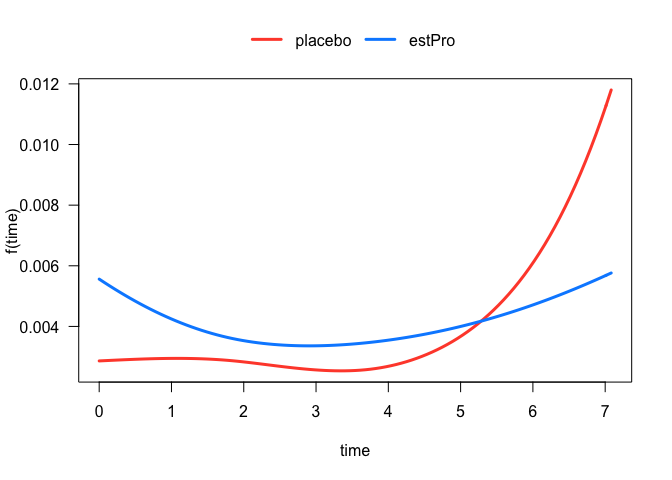
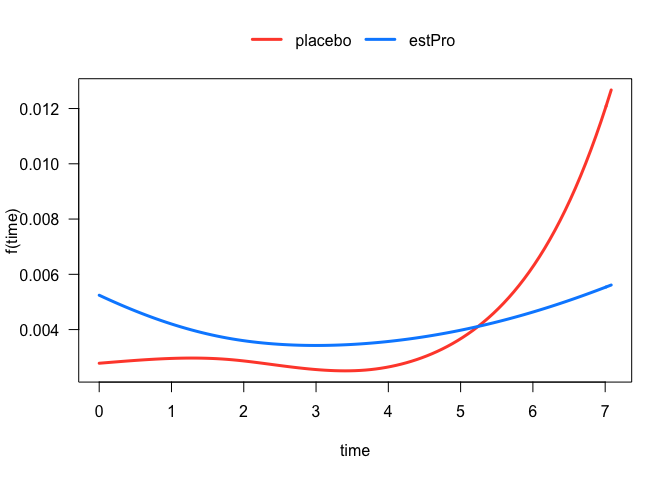
transition to GHA

diff --git a/README.md b/README.md
@@ -5,8 +5,6 @@
 
 <!-- badges: start -->
 
-[![Build
-Status](https://api.travis-ci.org/sahirbhatnagar/casebase.svg?branch=master)](https://travis-ci.org/github/sahirbhatnagar/casebase)
 [![Coverage
 Status](https://img.shields.io/codecov/c/github/sahirbhatnagar/casebase/master.svg)](https://codecov.io/github/sahirbhatnagar/casebase?branch=master)
 [![CRAN](https://www.r-pkg.org/badges/version/casebase?color=blue)](https://cran.r-project.org/package=casebase)
@@ -63,7 +61,7 @@ example usage of the functions. This includes
 6.  [Plot Cumulative Incidence and Survival
     Curves](http://sahirbhatnagar.com/casebase/articles/plotabsRisk.html)
 
-## useR\! 2019 Toulouse - Presentation
+## useR! 2019 Toulouse - Presentation
 
 [![Jesse
 useR](man/figures/jesse-user.png)](https://www.youtube.com/watch?v=DlppjRYVklQ)
@@ -128,26 +126,26 @@ summary(fit)
 #> 
 #> Deviance Residuals: 
 #>     Min       1Q   Median       3Q      Max  
-#> -0.2479  -0.1482  -0.1373  -0.1268   3.1490  
+#> -0.2560  -0.1483  -0.1385  -0.1264   3.1525  
 #> 
 #> Coefficients:
 #>                                   Estimate Std. Error z value Pr(>|z|)    
-#> (Intercept)                       -5.85621    0.30013 -19.512  < 2e-16 ***
-#> treatmentestPro                    0.66414    0.37783   1.758   0.0788 .  
-#> ns(time, df = 3)1                 -0.41110    0.35944  -1.144   0.2527    
-#> ns(time, df = 3)2                  0.77792    0.73254   1.062   0.2883    
-#> ns(time, df = 3)3                  1.37771    0.34131   4.036 5.43e-05 ***
-#> treatmentestPro:ns(time, df = 3)1  0.07468    0.48613   0.154   0.8779    
-#> treatmentestPro:ns(time, df = 3)2 -1.40359    0.94189  -1.490   0.1362    
-#> treatmentestPro:ns(time, df = 3)3 -1.06823    0.48634  -2.196   0.0281 *  
+#> (Intercept)                        -5.8848     0.3020 -19.489  < 2e-16 ***
+#> treatmentestPro                     0.6340     0.3794   1.671   0.0947 .  
+#> ns(time, df = 3)1                  -0.4583     0.3639  -1.259   0.2079    
+#> ns(time, df = 3)2                   0.8832     0.7374   1.198   0.2311    
+#> ns(time, df = 3)3                   1.4435     0.3460   4.172 3.02e-05 ***
+#> treatmentestPro:ns(time, df = 3)1   0.1461     0.4913   0.297   0.7661    
+#> treatmentestPro:ns(time, df = 3)2  -1.3828     0.9460  -1.462   0.1438    
+#> treatmentestPro:ns(time, df = 3)3  -1.1537     0.4895  -2.357   0.0184 *  
 #> ---
 #> Signif. codes:  0 '***' 0.001 '**' 0.01 '*' 0.05 '.' 0.1 ' ' 1
 #> 
 #> (Dispersion parameter for binomial family taken to be 1)
 #> 
 #>     Null deviance: 3635.4  on 32723  degrees of freedom
-#> Residual deviance: 3613.4  on 32716  degrees of freedom
-#> AIC: 3629.4
+#> Residual deviance: 3613.7  on 32716  degrees of freedom
+#> AIC: 3629.7
 #> 
 #> Number of Fisher Scoring iterations: 7
 ```
@@ -233,20 +231,20 @@ inherits from `vglm`.
 
 This package is makes use of several existing packages including:
 
-  - [`VGAM`](https://cran.r-project.org/package=VGAM) for fitting
+-   [`VGAM`](https://cran.r-project.org/package=VGAM) for fitting
     multinomial logistic regression models
-  - [`survival`](https://cran.r-project.org/package=survival) for
+-   [`survival`](https://cran.r-project.org/package=survival) for
     survival models
-  - [`ggplot2`](https://cran.r-project.org/package=ggplot2) for plotting
+-   [`ggplot2`](https://cran.r-project.org/package=ggplot2) for plotting
     the population time plots
-  - [`data.table`](https://cran.r-project.org/package=data.table) for
+-   [`data.table`](https://cran.r-project.org/package=data.table) for
     efficient handling of large datasets
 
 Other packages with similar objectives but different parametric forms:
 
-  - [`rstpm2`](https://cran.r-project.org/package=rstpm2)
-  - [`flexsurv`](https://cran.r-project.org/package=flexsurv)
-  - [`SmoothHazard`](https://cran.r-project.org/package=SmoothHazard)
+-   [`rstpm2`](https://cran.r-project.org/package=rstpm2)
+-   [`flexsurv`](https://cran.r-project.org/package=flexsurv)
+-   [`SmoothHazard`](https://cran.r-project.org/package=SmoothHazard)
 
 ## Citation
 
@@ -280,9 +278,9 @@ citation('casebase')
 
 ## Contact
 
-  - Issues: <https://github.com/sahirbhatnagar/casebase/issues>
-  - Pull Requests: <https://github.com/sahirbhatnagar/casebase/>
-  - e-mail: <sahir.bhatnagar@gmail.com>, <max.turgeon@umanitoba.ca>
+-   Issues: <https://github.com/sahirbhatnagar/casebase/issues>
+-   Pull Requests: <https://github.com/sahirbhatnagar/casebase/>
+-   e-mail: <sahir.bhatnagar@gmail.com>, <max.turgeon@umanitoba.ca>
 
 ## Latest news
 
